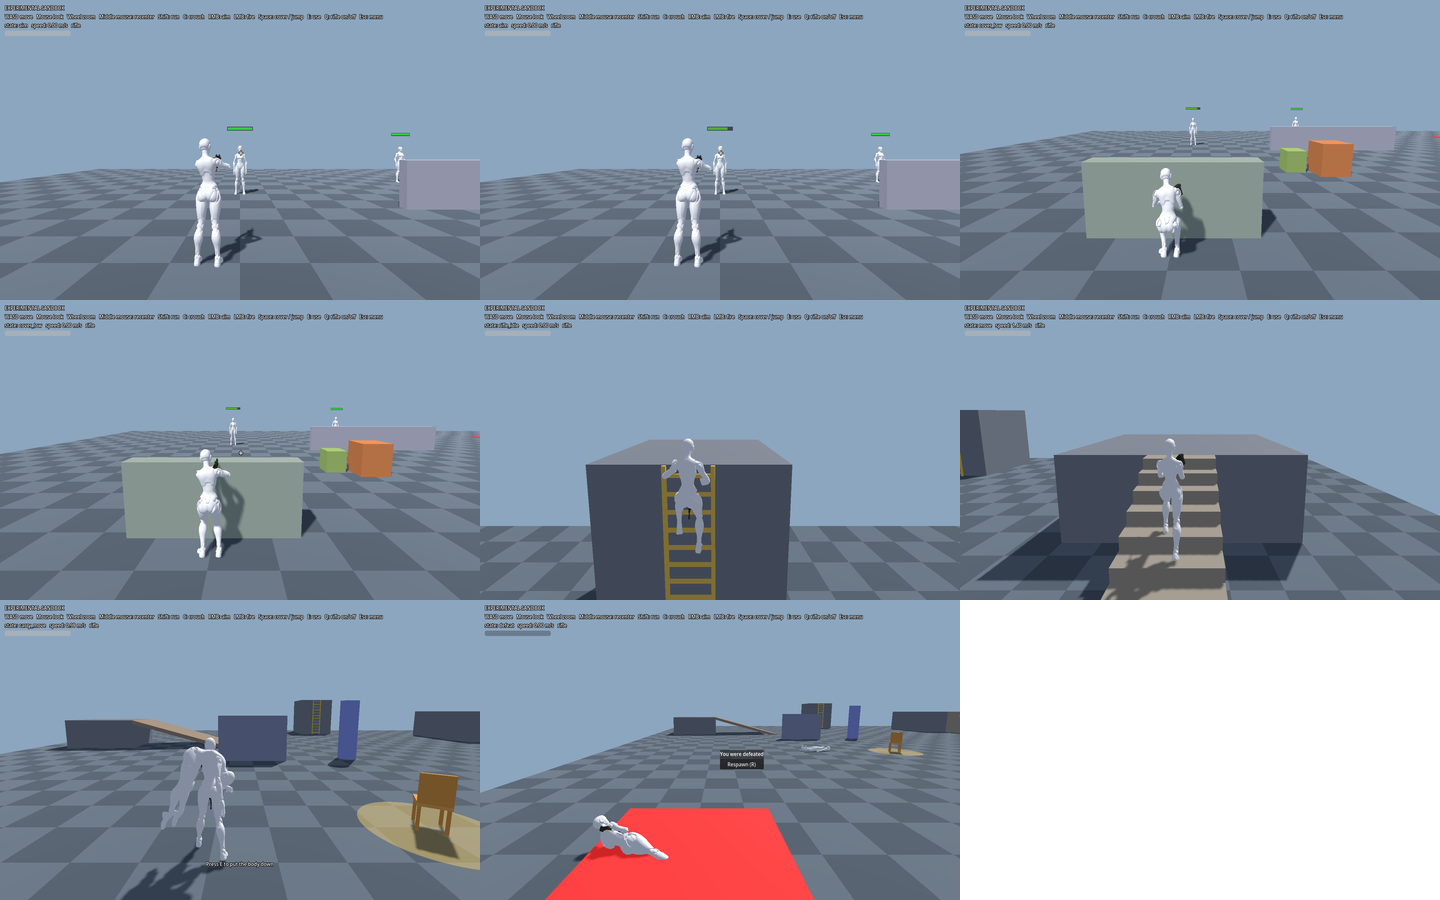
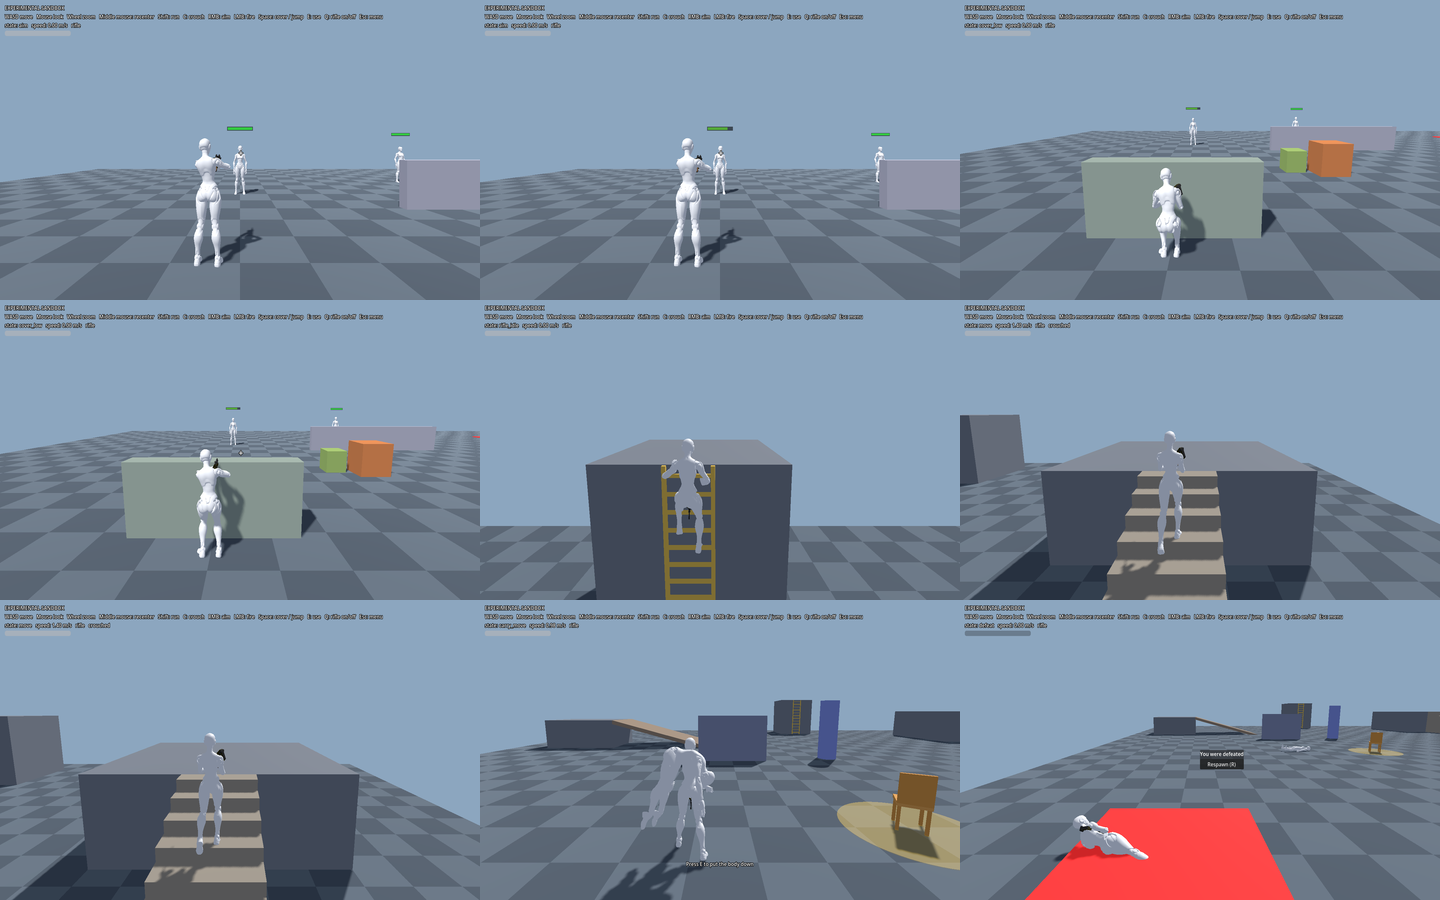
feat(animation): stairs no longer glue her feet to the tread centre, and she stops sitting down mid-climb
Two things from a very honest playtest:

1. The sunken, seated-looking stair pose was not the planner: it was a held crouch (pelvis 0.52 m) or run
   (0.65 m) fighting the stair pose (0.86-0.97 m when walking). The exploration host now suspends a crouch on
   stairs and ladders, the playground walks the stairs, and the treads finally have collision.

2. The shared stair planner planted each foot at one fixed point per tread. It now has a stance motion: the
   ankle rolls forward through the stance, the heel lifts toward toe-off, landings vary a little per tread
   (deterministic), and the pelvis shifts over the supporting foot. All pure functions of position, so replay
   and frame rate are unaffected. StairProfile.stance_motion_enabled turns it off and reproduces the old
   behaviour exactly (pose trace identical in all 39 scenarios with it off).

This intentionally changes the tactical stair poses: with it on, only stairs, stairs_down, stairs_interrupted
and ladder_over_stairs differ; the other 35 scenarios are identical. The old "planted foot does not slide"
contract becomes a bounded-roll contract (and is still verified for the switch-off mode).

Tests: traversal_stair_feet_test (78), traversal_stair_gameplay_test, exploration_actions_test (38), animation
FAST tier (26/26), warning audit clean. Full suite and route trace not rerun.

diff --git a/docs/animation.md b/docs/animation.md
@@ -89,6 +89,10 @@ Not done (Task 09): a second humanoid is not part of production yet; the alterna
 
 Equipment is chosen by the scene, never by the rig. `weapon_scene` is null by default: a rig with none initialises, moves, crouches, climbs, carries and is defeated on the same stack, with relaxed arms (`apply_relaxed_hand_targets`: hands hang by the thighs with a neutral wrist, cleared of the thigh by `HAND_THIGH_CLEARANCE`). `rig.has_weapon()` and `rig.equipment_state()` (NONE, HELD, SLUNG) are the truth; readiness is STOWED and an attack request settles SKIPPED without a shot clip. To equip, assign `weapon_scene` (a model with `SupportHandTarget` and `MuzzleSocket` nodes) and a `WeaponHandlingProfile`. No placeholder weapon exists. Tests: `unarmed_humanoid_test`, `unarmed_hand_clearance_test` (mesh penetration, not joint distance).
 
+## Stairs: foot placement and the stance motion
+
+Both contexts use the same stair planner (`motion/stair_foot_planner.gd`, tuned by `StairProfile`): the feet are planned on the treads (one hold per tread at walking pace, every second at speed), alternate left and right, and the pelvis is placed from the feet. With `stance_motion_enabled` (the default) a planted foot is not nailed to one point: through its stance it rolls (the ankle drifts forward by `stance_roll` and the heel comes up by `heel_lift` toward toe-off), where it lands varies a little per tread (`placement_variation`, deterministic: the same every time for the same tread), and the pelvis shifts sideways toward the supporting foot (`pelvis_sway`). It is a pure function of where the body is along the stair, so replay and frame rate are unaffected. Switching it off reproduces the earlier locked-foot behaviour exactly (the tactical pose trace is identical with it off). A crouch is suspended on stairs and ladders and a run is walked on stairs in the exploration host, because the stair pose owns the legs and the pelvis there. Tactical stairs are ridden kinematically along the route and have no collision; the sandbox staircase has solid treads that are ignored while she is on them.
+
 ## Cosmetic effects outside the action lifecycle
 
 These are deliberate and stay outside `CharacterPresenter`'s lifecycles because nothing waits on them and they cannot affect gameplay: the team ring and class marker (`TacticalCharacterAdapter`), the muzzle flash and shot-feedback timer (`CharacterRig`), the passenger's presence fade while boarding (`present_boarding`), the stow blend and carry sway, and, for a standalone rig only, the sights tween (`aim_blend_follows_clips`). Move one into the presenter only if its ownership causes a real timing or lifecycle problem.

diff --git a/docs/claude/animation-presenter-foundation-2026-11-20.md b/docs/claude/animation-presenter-foundation-2026-11-20.md
@@ -351,3 +351,5 @@ No generic scheduler was added: precedence is a few early checks in the adapter'
 
 **Task 08 follow-up: sandbox actions (proof of concept).** On the owner's request the playground gained, as separate packages, aim and shoot with mannequins and health bars, Mass Effect 2 style cover, a ladder, a placeholder jump, a staircase and ramp, carrying a body, and player health with a defeat and respawn screen, plus a fall-and-respawn safety net (`ExplorationSpawnGuard`) and per-frame movement (the earlier physics-tick movement made the character shimmer at higher frame rates; measured 40% stale frames, now 0). The host gained small context-neutral requests for these; no rig or presenter code changed. `exploration_actions_test` (33 checks) drives every package through the real playground; `docs/claude/images/task08/exploration-actions-sheet.png` shows them. Not done: strafing clips while aiming, a jump animation, enemy fire, any reach pose. Tactical code was not touched, so the tactical traces were not rerun for this follow-up.
 
+**Stair foot stance (owner request after playing the sandbox).** The sunken pose in the screenshots was a held crouch or run combined with the stair pose (pelvis 0.52 and 0.65 m above the treads against 0.86 to 0.97 walking); the host now suspends a crouch on stairs and the controller walks the stairs. Separately the shared planner gained the stance motion (foot roll, heel lift, per-tread landing variation, pelvis weight shift) behind `StairProfile.stance_motion_enabled`. Evidence: with it off the pose trace is identical to the previous baseline in all 39 scenarios; with it on only the four stair scenarios (`stairs`, `stairs_down`, `stairs_interrupted`, `ladder_over_stairs`) change, the other 35 stay identical. This is an intentional change to tactical stair poses. The old "planted foot does not slide" contract is replaced by a bounded-roll contract (and kept, verified, for the switch-off mode) in `traversal_stair_feet_test` (78 checks) and `traversal_stair_gameplay_test`. Not changed: the route trace, tactical collision (units ride the route), and ankle rotation (the foot targets are positions).
+
